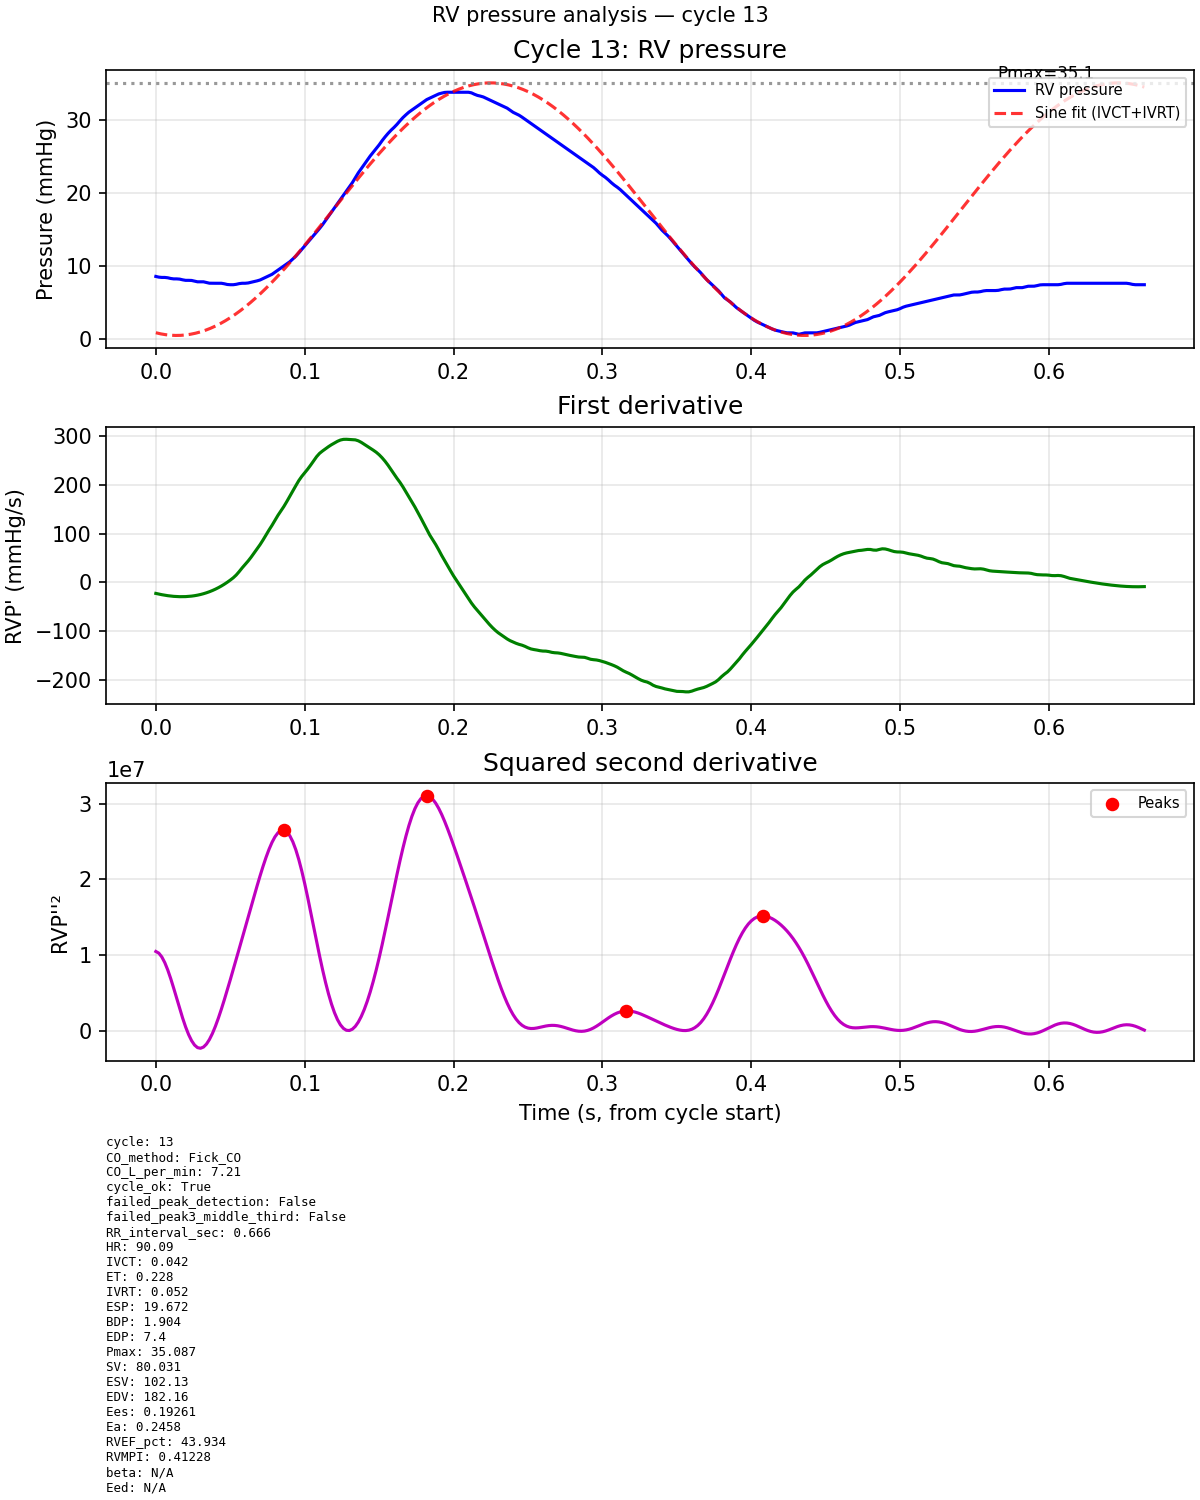
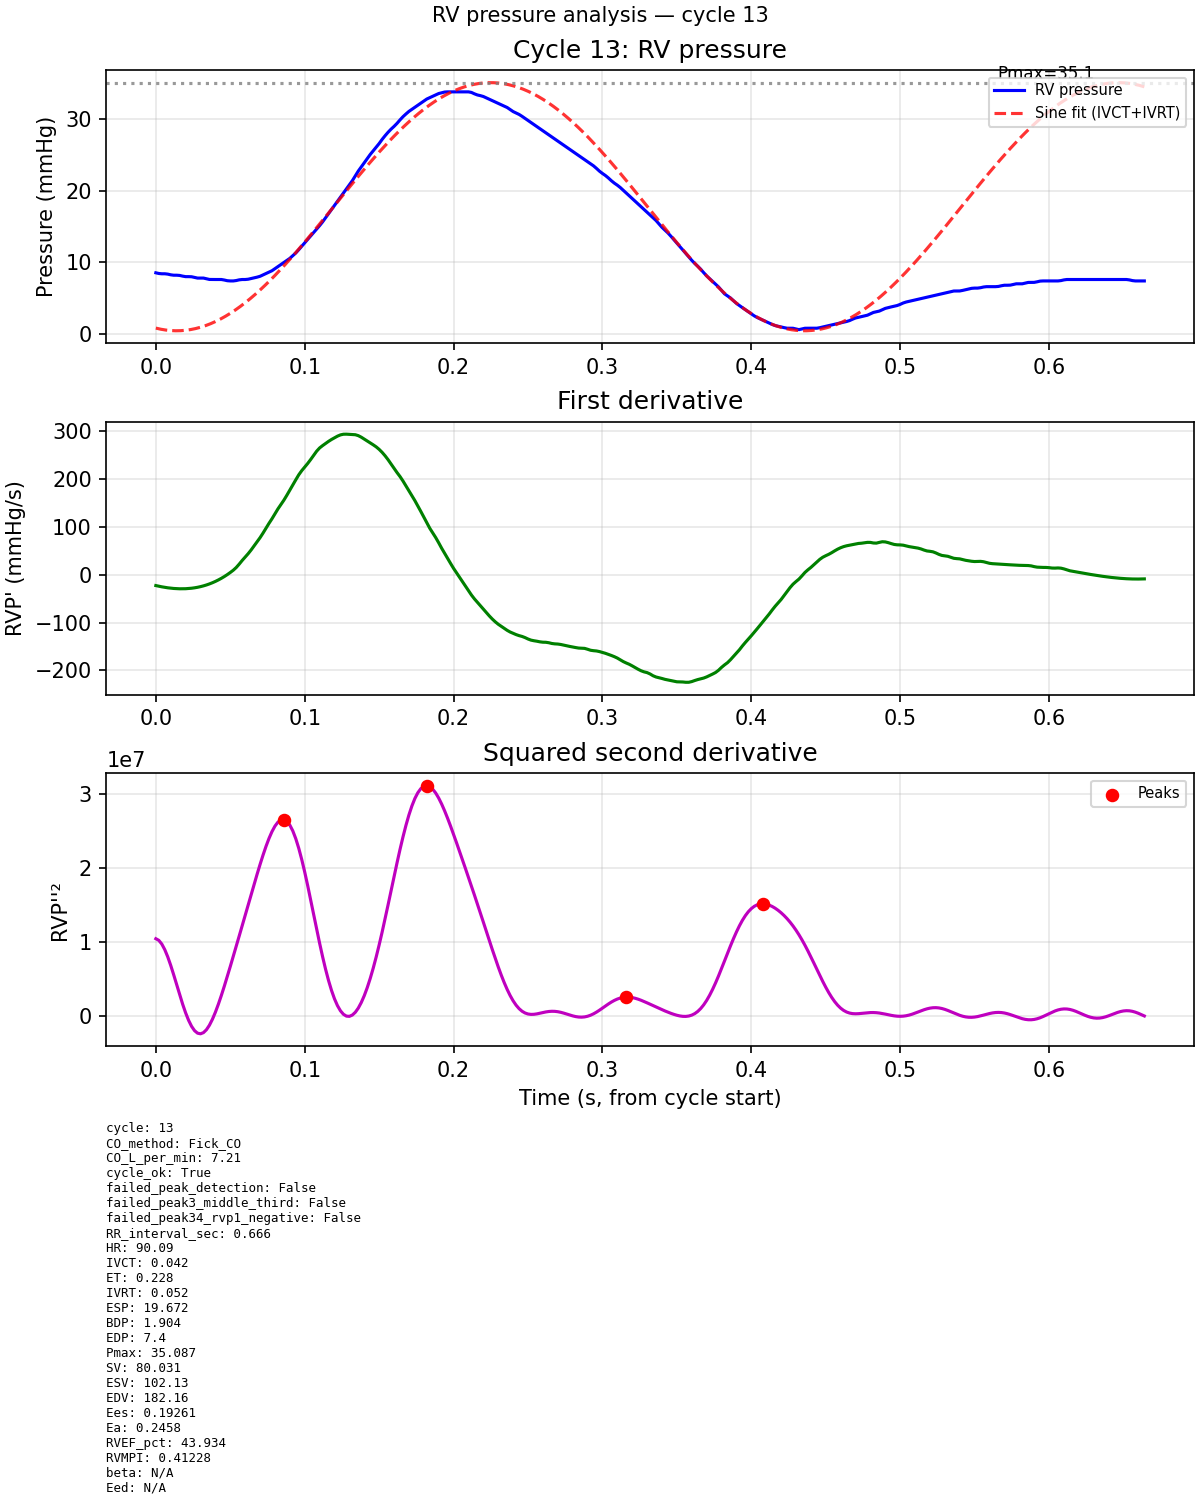
refactored code for peak picking

diff --git a/scripts/analyze_rv_pressure.py b/scripts/analyze_rv_pressure.py
@@ -4,6 +4,7 @@ Analyze RV pressure time series from HDF5: ECG-gated cardiac cycles and PV-loop 
 
 Reads user-specified HDF5 (ECG Lead II + RHC_pressure), detects R-waves (TEE_optical_flow style),
 segments RV pressure into R-R intervals, and computes per-cycle Ees, Ea, RVEF, Eed, RVMPI, beta, etc.
+Four (RVP'')² peaks are found in fixed regions of each beat (first third; then to argmin RVP'; then to argmin RVP).
 Writes csv_files/{basename}.csv and png_files/{basename}_{cycle}.png.
 
 Usage:
@@ -11,7 +12,7 @@ Usage:
         [--deriv-smooth none|savgol|kalman] [--savgol-window N] [--savgol-polyorder P]
         [--kalman-level-noise X] [--kalman-trend-noise X] [--kalman-observation-noise X]
         [--rvp2-sq-spectral] [--rvp2-sq-spectral-fraction F] [--rvp2-sq-spectral-pad N]
-        [--disable-peak3-middle-third] [--disable-peak34-negative-rvp1]
+        [--enable-peak34-negative-rvp1]
         [-v|--verbose]
 """
 
@@ -226,17 +227,6 @@ def _spectral_smooth_rvp2_sq(
         return x
 
 
-def _peak3_in_middle_third(peak3_idx: int, n: int) -> bool:
-    """True if sample index lies in the middle third of [0, n-1] (inclusive)."""
-    if n < 1:
-        return False
-    lo = n // 3
-    hi = (2 * n) // 3 - 1
-    if lo > hi:
-        return False
-    return lo <= peak3_idx <= hi
-
-
 def _peaks34_rvp1_negative(rvp1: np.ndarray, peak3_idx: int, peak4_idx: int) -> bool:
     """True if RVP' is strictly negative at the 3rd and 4th RVP''² peaks (time-ordered)."""
     a = float(rvp1[peak3_idx])
@@ -244,20 +234,79 @@ def _peaks34_rvp1_negative(rvp1: np.ndarray, peak3_idx: int, peak4_idx: int) -> 
     return a < 0.0 and b < 0.0
 
 
-def _find_four_peaks(
-    rvp2_sq: np.ndarray, min_dist: int = 5, thres: float = 0.1
+def _peaks_rvp2_sq_segment(
+    rvp2_sq: np.ndarray,
+    lo: int,
+    hi: int,
+    min_dist: int,
+    thres: float,
+) -> np.ndarray:
+    """
+    Peak indices in global coordinates within [lo, hi] inclusive.
+    Uses shorter min_dist on short segments. Falls back to global argmax if len < 3.
+    """
+    if hi < lo:
+        return np.asarray([], dtype=int)
+    seg = np.asarray(rvp2_sq[lo : hi + 1], dtype=float)
+    nloc = seg.size
+    if nloc == 0:
+        return np.asarray([], dtype=int)
+    if nloc < 3:
+        return np.asarray([lo + int(np.argmax(seg))], dtype=int)
+    md = min(min_dist, max(1, nloc // 4))
+    try:
+        local = peakutils.peak.indexes(seg, thres=thres, min_dist=md)
+    except Exception:
+        return np.asarray([], dtype=int)
+    return np.asarray(local, dtype=int) + lo
+
+
+def _find_four_peaks_regional(
+    rvp2_sq: np.ndarray,
+    idx_min_dp: int,
+    idx_min_rvp: int,
+    min_dist: int = 5,
+    thres: float = 0.1,
 ) -> Optional[np.ndarray]:
-    """Find four prominent peaks in RVP''²; return indices in order or None."""
-    peak_idx = peakutils.peak.indexes(
-        rvp2_sq, thres=thres, min_dist=min_dist
-    )
-    if len(peak_idx) < N_PEAKS_RVP2:
+    """
+    Four RVP''² peaks in time order: (1–2) first third of cycle; (3) [n/3, idx_min_dp-1];
+    (4) [idx_min_dp, idx_min_rvp]. idx_min_dp = argmin(RVP'), idx_min_rvp = argmin(RVP).
+    """
+    n = int(rvp2_sq.shape[0])
+    if n < 3:
         return None
-    # Take the four largest peaks by value, then sort by index to get order
-    values = rvp2_sq[peak_idx]
-    order = np.argsort(values)[::-1][:N_PEAKS_RVP2]
-    four = np.sort(peak_idx[order])
-    return four
+
+    hi1 = n // 3
+    if hi1 < 2:
+        return None
+    peaks12 = _peaks_rvp2_sq_segment(rvp2_sq, 0, hi1 - 1, min_dist, thres)
+    if peaks12.size < 2:
+        return None
+    top2 = np.argsort(rvp2_sq[peaks12])[::-1][:2]
+    pair = np.sort(peaks12[top2].astype(int))
+    peak1_idx, peak2_idx = int(pair[0]), int(pair[1])
+
+    lo3 = n // 3
+    hi3 = idx_min_dp - 1
+    if lo3 > hi3:
+        return None
+    peaks3_cand = _peaks_rvp2_sq_segment(rvp2_sq, lo3, hi3, min_dist, thres)
+    if peaks3_cand.size < 1:
+        return None
+    peak3_idx = int(peaks3_cand[int(np.argmax(rvp2_sq[peaks3_cand]))])
+
+    lo4 = idx_min_dp
+    hi4 = idx_min_rvp
+    if lo4 > hi4:
+        return None
+    peaks4_cand = _peaks_rvp2_sq_segment(rvp2_sq, lo4, hi4, min_dist, thres)
+    if peaks4_cand.size < 1:
+        return None
+    peak4_idx = int(peaks4_cand[int(np.argmax(rvp2_sq[peaks4_cand]))])
+
+    if not (peak1_idx < peak2_idx < peak3_idx < peak4_idx):
+        return None
+    return np.array([peak1_idx, peak2_idx, peak3_idx, peak4_idx], dtype=int)
 
 
 def _sine_model(t: np.ndarray, A: float, omega: float, phi: float, C: float) -> np.ndarray:
@@ -334,8 +383,7 @@ def analyze_one_cycle(
     co_l_per_min: float,
     deriv_smooth: Optional[DerivativeSmoothConfig] = None,
     rvp2_sq_spectral: Optional[Rvp2SqSpectralConfig] = None,
-    require_peak3_middle_third: bool = True,
-    require_peak34_rvp1_negative: bool = True,
+    require_peak34_rvp1_negative: bool = False,
 ) -> tuple[dict[str, Any], Optional[tuple]]:
     """
     Compute all metrics for one cardiac cycle. Returns (row_dict, plot_data).
@@ -348,7 +396,10 @@ def analyze_one_cycle(
     sq_cfg = rvp2_sq_spectral if rvp2_sq_spectral is not None else Rvp2SqSpectralConfig()
     if sq_cfg.enabled:
         rvp2_sq = _spectral_smooth_rvp2_sq(rvp2_sq, sq_cfg.smooth_fraction, sq_cfg.pad_len)
-    peaks = _find_four_peaks(rvp2_sq)
+
+    idx_min_dp = int(np.argmin(rvp1))
+    idx_min_rvp = int(np.argmin(rvp))
+    peaks = _find_four_peaks_regional(rvp2_sq, idx_min_dp, idx_min_rvp)
     if peaks is None or len(peaks) < N_PEAKS_RVP2:
         return (
             {
@@ -361,17 +412,6 @@ def analyze_one_cycle(
         )
 
     peak1_idx, peak2_idx, peak3_idx, peak4_idx = int(peaks[0]), int(peaks[1]), int(peaks[2]), int(peaks[3])
-    n_seg = int(rvp2_sq.shape[0])
-    if require_peak3_middle_third and not _peak3_in_middle_third(peak3_idx, n_seg):
-        return (
-            {
-                "cycle_ok": False,
-                "failed_peak_detection": True,
-                "failed_peak3_middle_third": True,
-                "failed_peak34_rvp1_negative": False,
-            },
-            None,
-        )
 
     if require_peak34_rvp1_negative and not _peaks34_rvp1_negative(rvp1, peak3_idx, peak4_idx):
         return (
@@ -385,7 +425,6 @@ def analyze_one_cycle(
         )
 
     idx_max_dp = int(np.argmax(rvp1))
-    idx_min_dp = int(np.argmin(rvp1))
 
     # Landmarks (times in seconds)
     t_peak1 = t[peak1_idx]
@@ -596,8 +635,7 @@ def run_analysis(
     verbose: bool = False,
     deriv_smooth: Optional[DerivativeSmoothConfig] = None,
     rvp2_sq_spectral: Optional[Rvp2SqSpectralConfig] = None,
-    require_peak3_middle_third: bool = True,
-    require_peak34_rvp1_negative: bool = True,
+    require_peak34_rvp1_negative: bool = False,
 ) -> int:
     """Load HDF5, run full pipeline, write CSV and PNGs. Returns 0 on success."""
     if co_method.upper() == "TDCO":
@@ -691,7 +729,6 @@ def run_analysis(
             co_l_per_min,
             deriv_smooth=deriv_smooth,
             rvp2_sq_spectral=rvp2_sq_spectral,
-            require_peak3_middle_third=require_peak3_middle_third,
             require_peak34_rvp1_negative=require_peak34_rvp1_negative,
         )
         row["cycle"] = cycle_num
@@ -815,14 +852,9 @@ def main() -> int:
         help=f"Spectral smoother: symmetric pad length at each edge. Default: {ECG_PAD_LEN} (same as ECG path)",
     )
     parser.add_argument(
-        "--disable-peak3-middle-third",
+        "--enable-peak34-negative-rvp1",
         action="store_true",
-        help="Disable requirement that the 3rd RVP''² peak (time-ordered) lies in the middle third of the cycle",
-    )
-    parser.add_argument(
-        "--disable-peak34-negative-rvp1",
-        action="store_true",
-        help="Disable requirement that the 3rd and 4th RVP''² peaks occur where RVP' is negative",
+        help="Require RVP'<0 at the 3rd and 4th RVP''² peaks (optional; regional search is the default)",
     )
     args = parser.parse_args()
     h5_path = args.h5_path.resolve()
@@ -851,8 +883,7 @@ def main() -> int:
         verbose=args.verbose,
         deriv_smooth=deriv_cfg,
         rvp2_sq_spectral=rvp2_sq_cfg,
-        require_peak3_middle_third=not args.disable_peak3_middle_third,
-        require_peak34_rvp1_negative=not args.disable_peak34_negative_rvp1,
+        require_peak34_rvp1_negative=args.enable_peak34_negative_rvp1,
     )
 
 

diff --git a/README.md b/README.md
@@ -174,21 +174,21 @@ After derivative smoothing (if any) and squaring RVP″, you can apply a **secon
 
 Very short cycles may skip spectral smoothing with a stderr warning and use unsmoothed \((\mathrm{RVP}'')^2\).
 
-### 3rd RVP''² peak in the middle third (default)
+### Regional search for four \((\mathrm{RVP}'')^2\) peaks (default)
 
-Among the four largest peaks on \((\mathrm{RVP}'')^2\) (sorted in **time order**), the **third** peak (the middle one in time) must fall in the **middle third** of the cycle’s sample indices. If not, that beat is marked as failed peak detection (`failed_peak3_middle_third` is true in the CSV). This is **on** by default.
+Peaks are **not** chosen as the four largest maxima on the whole beat. Instead, `peakutils` is run in three windows (with indices mapped back to the full cycle):
+
+1. **Peaks 1 and 2** — only within the **first third** of samples, \([0, n/3)\): the **two highest** \((\mathrm{RVP}'')^2\) values among detected peaks there, ordered in time.
+2. **Peak 3** — in \([n/3, i_{\min dP/dt}-1]\) where \(i_{\min dP/dt} = \arg\min(\mathrm{RVP}')\) (disjoint from peak 4). The **largest** remaining peak in that window.
+3. **Peak 4** — in \([i_{\min dP/dt}, i_{\min P}]\) where \(i_{\min P} = \arg\min(\mathrm{RVP})\). The **largest** peak in that window.
+
+All four indices must be strictly increasing. If any window has no peak or ordering fails, the beat is rejected (`failed_peak_detection`). The CSV column `failed_peak3_middle_third` is kept for compatibility and is **always false** with this algorithm.
+
+### Optional: negative RVP' at peaks 3 and 4
 
 | Flag | Meaning |
 |------|---------|
-| `--disable-peak3-middle-third` | Turn off this requirement (restores behavior closer to older versions that did not check peak position). |
-
-### 3rd and 4th RVP''² peaks with negative RVP' (default)
-
-The **3rd** and **4th** peaks in time order (among the four selected on \((\mathrm{RVP}'')^2\)) must occur where **RVP'** is **strictly negative** (`rvp1[peak_idx] < 0`). If not, the beat fails peak detection and `failed_peak34_rvp1_negative` is true in the CSV. This is **on** by default.
-
-| Flag | Meaning |
-|------|---------|
-| `--disable-peak34-negative-rvp1` | Turn off this requirement. |
+| `--enable-peak34-negative-rvp1` | Additionally require \(\mathrm{RVP}' < 0\) at the 3rd and 4th peaks; otherwise set `failed_peak34_rvp1_negative` and reject the beat. **Off** by default (regional windows already bias peaks appropriately). |
 
 ### HDF5 inputs the script expects
 
@@ -233,7 +233,7 @@ python scripts/analyze_rv_pressure.py hdf5_files/TRM127-RHC1.h5 --co-method TDCO
 | Analysis: no valid cycles | R–R outside 0.4–1.5 s, or too few R-peaks; check ECG quality and `--ecg-lead`. |
 | Derivative smoothing warnings | Short segments may skip Savitzky–Golay or Kalman; warnings go to stderr. |
 | Spectral \((\mathrm{RVP}'')^2\) warnings | Very short cycles or invalid fraction/pad; falls back to unsmoothed \((\mathrm{RVP}'')^2\). |
-| Many cycles fail `failed_peak3_middle_third` | Third \((\mathrm{RVP}'')^2\) peak not in middle third of beat; try `--disable-peak3-middle-third` or improve signals / smoothing. |
-| Many cycles fail `failed_peak34_rvp1_negative` | 3rd/4th peaks not on negative RVP'; try `--disable-peak34-negative-rvp1` or adjust derivative smoothing. |
+| Many cycles fail peak detection | Empty regional window (e.g. \(\arg\min \mathrm{RVP}'\) too early) or not enough peaks in the first third; try `--deriv-smooth` / `--rvp2-sq-spectral` or relax with fewer constraints. |
+| Many cycles fail `failed_peak34_rvp1_negative` | Only if you used `--enable-peak34-negative-rvp1`; otherwise leave that flag off. |
 
 For full behavior (filters, peak rules, and metric definitions), see the docstrings and constants in `scripts/analyze_rv_pressure.py`.
